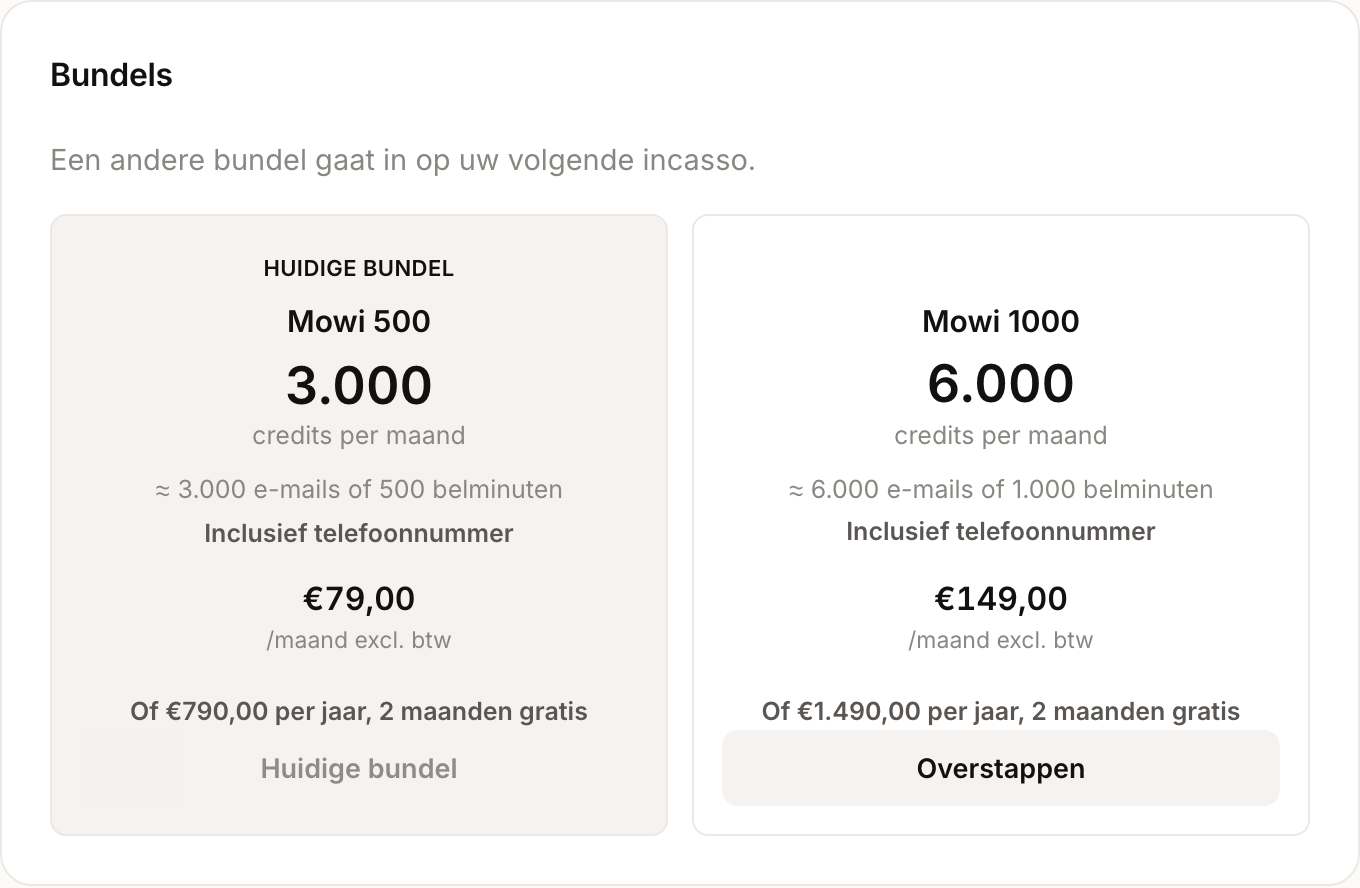
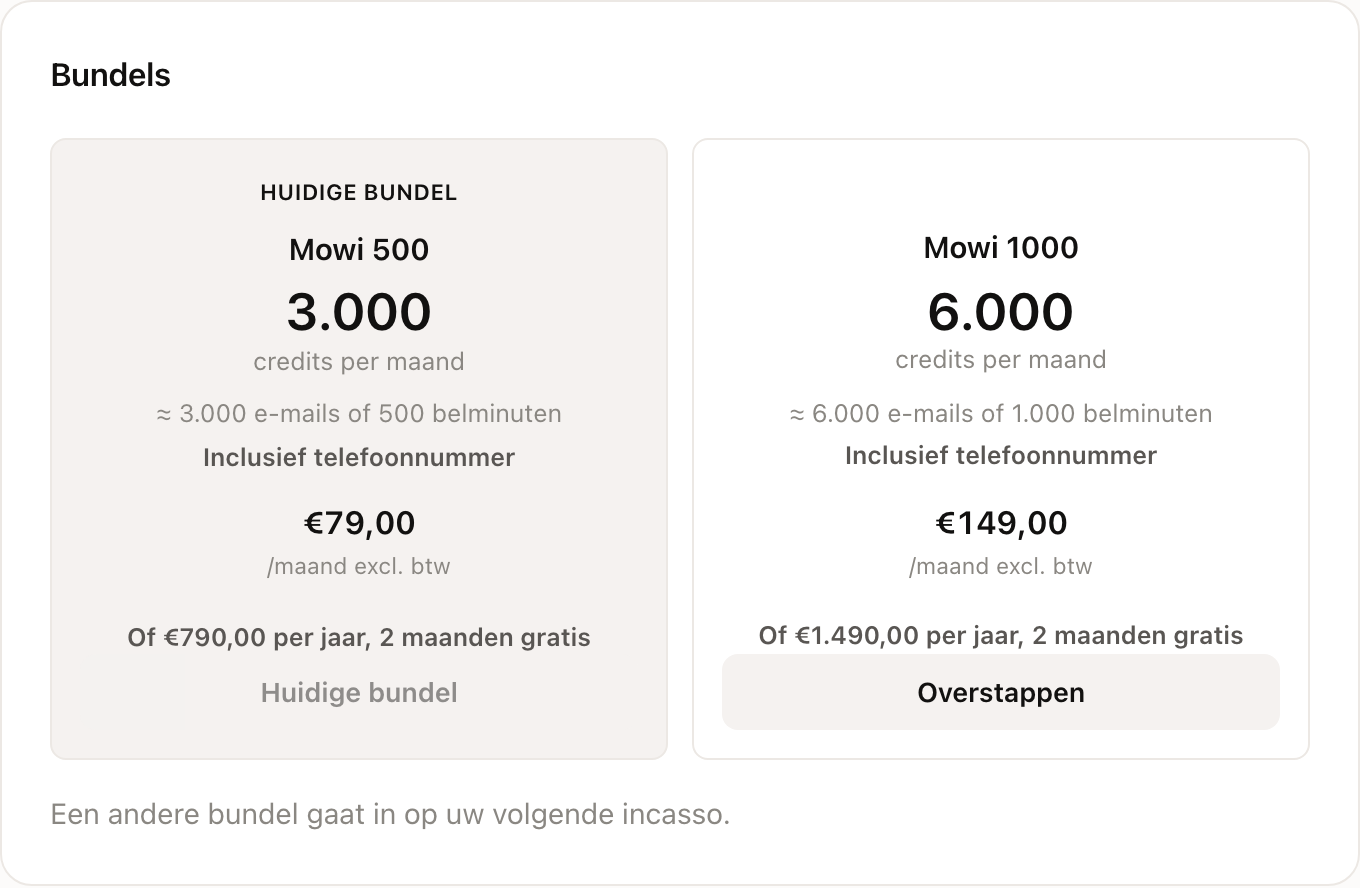
Docs: bundel screenshots with the text below the tiles
Follows dashboard b6524b1 (Sal: "put the bundel card text below the 2
tiles instead of above"). Kies een bundel and Bundels re-shot from a
render with the plans production sells (Mowi 500, Mowi 1000); same size,
new ?v=.

diff --git a/docs/pakketten-en-abonnement.html b/docs/pakketten-en-abonnement.html
@@ -107,7 +107,7 @@
 </div>
 
 <div class="docs-media docs-media--shot">
-<a href="../assets/docs/pakketten-1-kies.webp?v=20261022" target="_blank" rel="noopener"><img src="../assets/docs/pakketten-1-kies.webp?v=20261022" alt="De kaart Kies een bundel met Mowi 500 als aanbevolen bundel en Mowi 1000, elk met credits, prijs, Per maand of Per jaar en een knop" width="680" height="500" loading="lazy" /></a>
+<a href="../assets/docs/pakketten-1-kies.webp?v=20261023" target="_blank" rel="noopener"><img src="../assets/docs/pakketten-1-kies.webp?v=20261023" alt="De kaart Kies een bundel met Mowi 500 als aanbevolen bundel en Mowi 1000, elk met credits, prijs, Per maand of Per jaar en een knop" width="680" height="500" loading="lazy" /></a>
 </div>
 <p class="docs-media-caption">De kaart <strong>Kies een bundel</strong> op de pagina Abonnement.</p>
 
@@ -128,7 +128,7 @@
 </p>
 
 <div class="docs-media docs-media--shot">
-<a href="../assets/docs/pakketten-3-overstappen.webp?v=20261022" target="_blank" rel="noopener"><img src="../assets/docs/pakketten-3-overstappen.webp?v=20261022" alt="De kaart Bundels met Mowi 500 als huidige bundel en Mowi 1000 met de knop Overstappen" width="680" height="444" loading="lazy" /></a>
+<a href="../assets/docs/pakketten-3-overstappen.webp?v=20261023" target="_blank" rel="noopener"><img src="../assets/docs/pakketten-3-overstappen.webp?v=20261023" alt="De kaart Bundels met Mowi 500 als huidige bundel en Mowi 1000 met de knop Overstappen" width="680" height="444" loading="lazy" /></a>
 </div>
 <p class="docs-media-caption">Onder <strong>Bundels</strong> staat uw huidige bundel naast de andere.</p>
 
